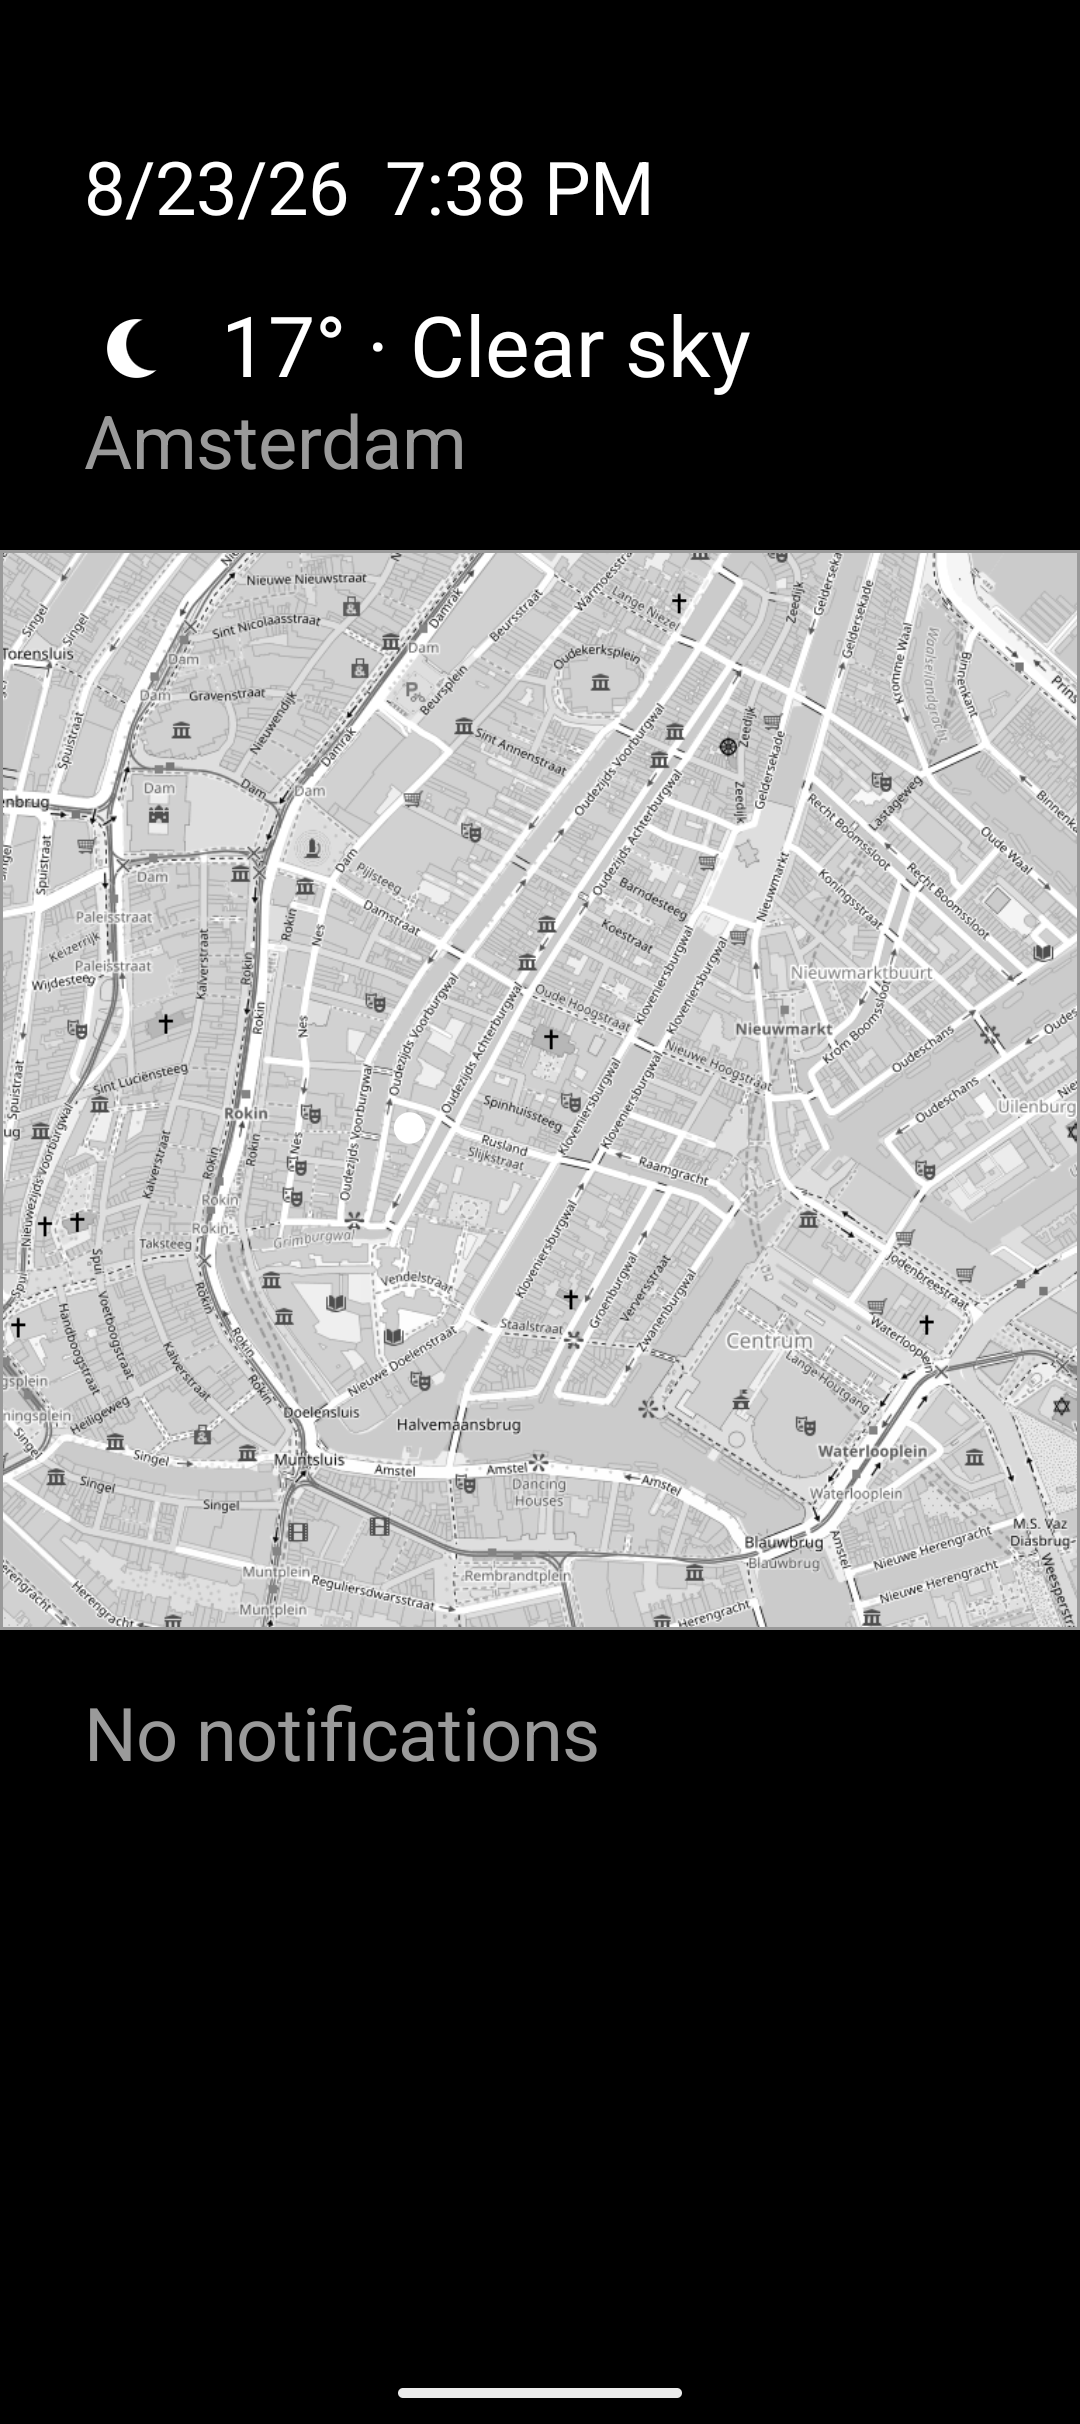
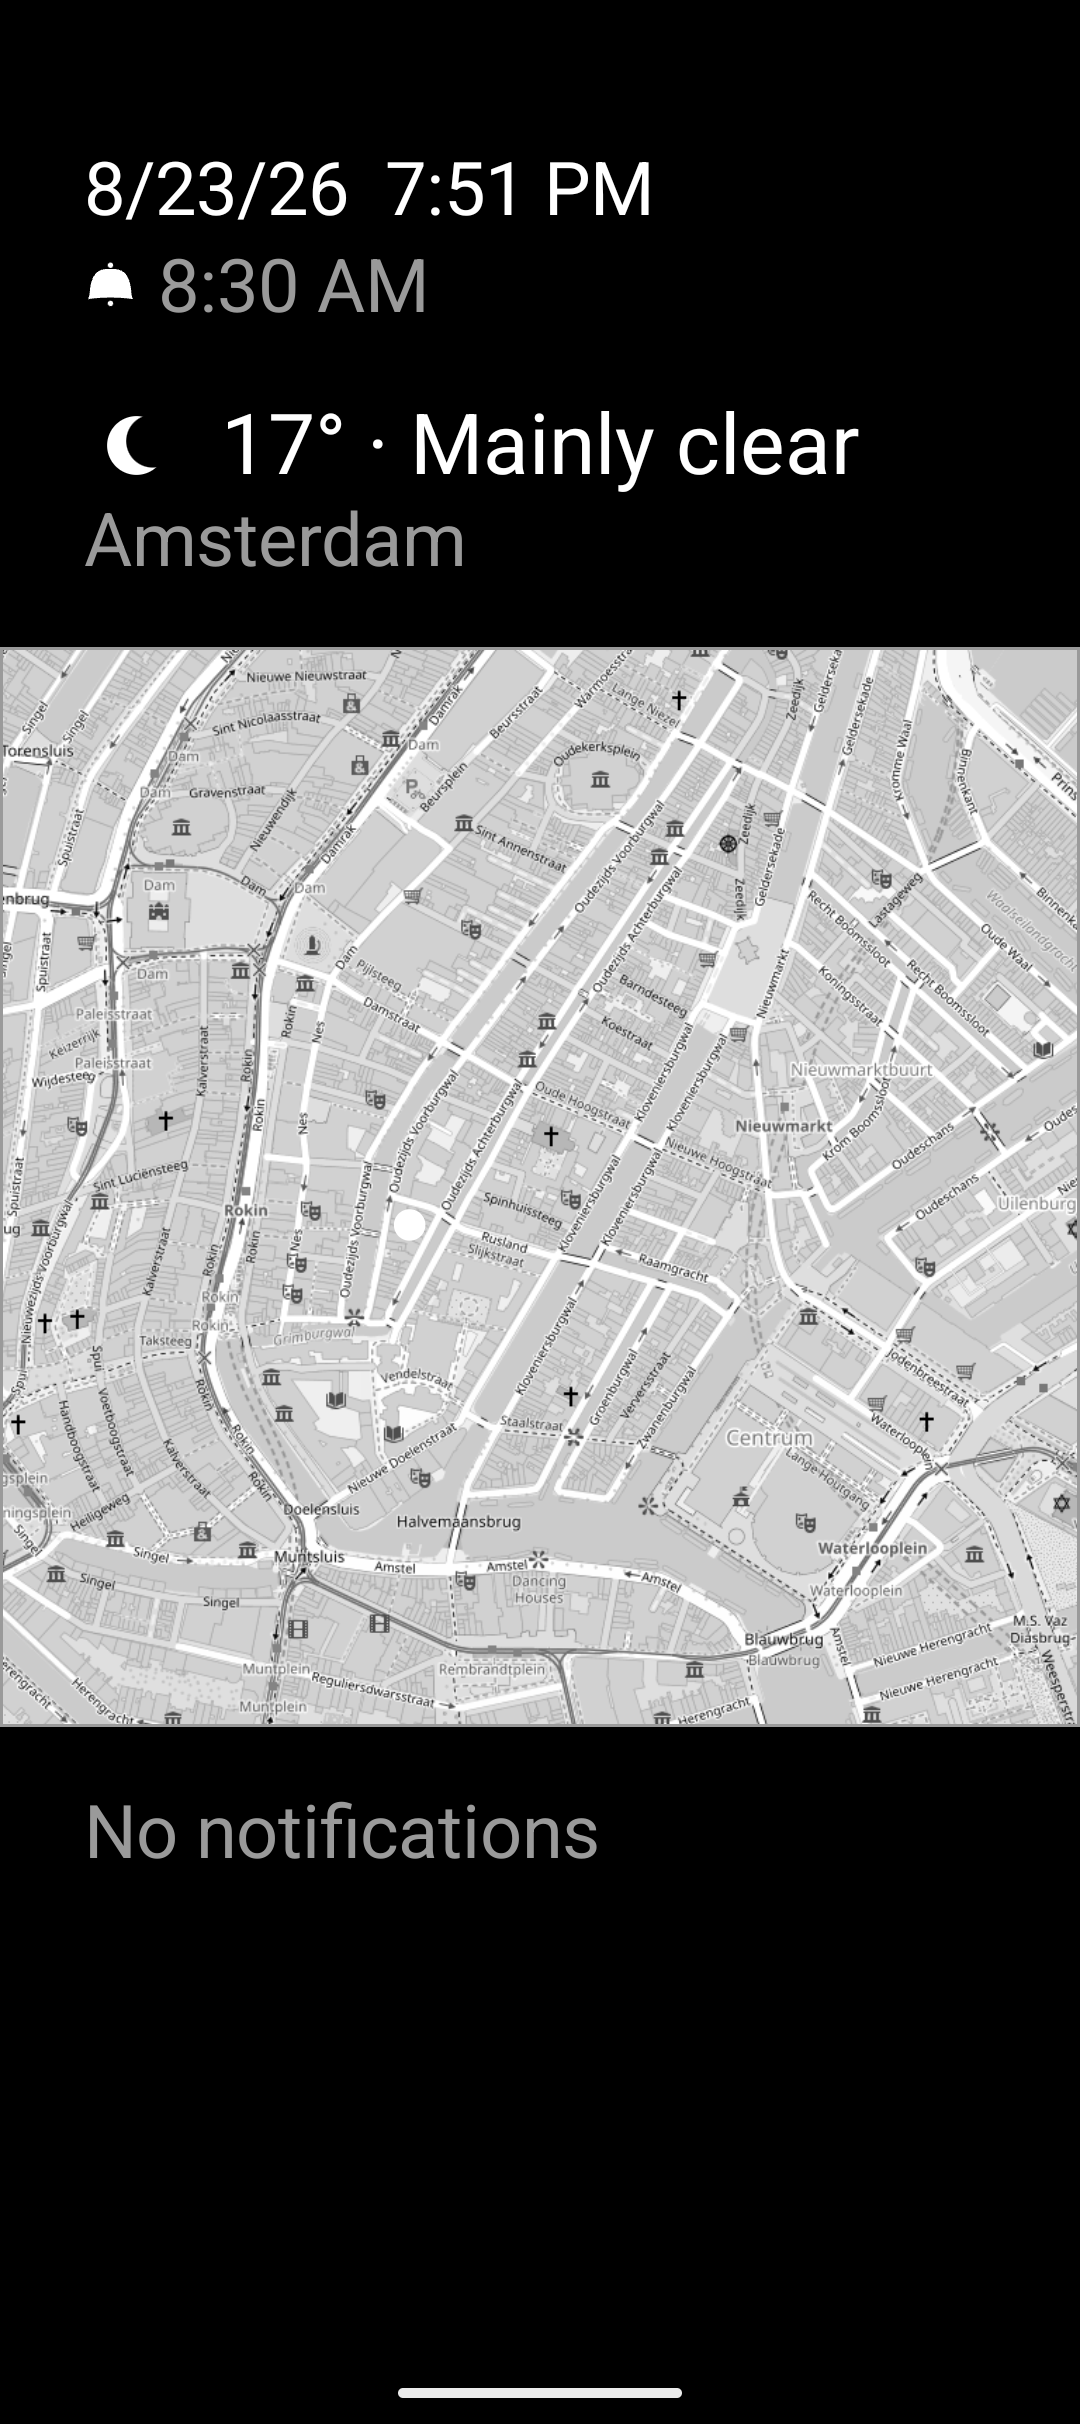
Show the next alarm on the dashboard's date/time line
Uses AlarmManager.getNextAlarmClock() — public, no special permission
needed. Shown only when the alarm is due within 25 hours (a farther-out
alarm is treated the same as none set), on its own line below the
date/time with a small hand-drawn bell icon, matching the weather
icon's style. Timer support was scoped out: Android has no public API
for "is a timer currently running," since that state is private to
whichever clock app the user has installed.

Verified against a real alarm set through the emulator's Clock app.

Closes #8

Changed region(s): [[0.0, 0.0928, 1.0, 0.7735], [0.3972, 0.0619, 0.4889, 0.0928], [0.1528, 0.0928, 0.1833, 0.1238]]

diff --git a/app/src/main/java/nl/petervanmanen/minimalauncher/ui/dashboard/DateTimeSection.kt b/app/src/main/java/nl/petervanmanen/minimalauncher/ui/dashboard/DateTimeSection.kt
@@ -1,8 +1,14 @@
 package nl.petervanmanen.minimalauncher.ui.dashboard
 
+import android.app.AlarmManager
 import android.text.format.DateFormat
 import androidx.compose.foundation.combinedClickable
 import androidx.compose.foundation.interaction.MutableInteractionSource
+import androidx.compose.foundation.layout.Column
+import androidx.compose.foundation.layout.Row
+import androidx.compose.foundation.layout.Spacer
+import androidx.compose.foundation.layout.height
+import androidx.compose.foundation.layout.width
 import androidx.compose.material3.MaterialTheme
 import androidx.compose.material3.Text
 import androidx.compose.runtime.Composable
@@ -11,13 +17,18 @@ import androidx.compose.runtime.getValue
 import androidx.compose.runtime.mutableStateOf
 import androidx.compose.runtime.remember
 import androidx.compose.runtime.setValue
+import androidx.compose.ui.Alignment
 import androidx.compose.ui.Modifier
 import androidx.compose.ui.platform.LocalContext
+import androidx.compose.ui.unit.dp
 import java.util.Date
 import kotlinx.coroutines.delay
+import nl.petervanmanen.minimalauncher.data.util.nextAlarmToShow
+import nl.petervanmanen.minimalauncher.ui.theme.DimWhite
 
 /**
- * The current date and time, in the device's own format/locale settings.
+ * The current date and time, in the device's own format/locale settings,
+ * plus the next alarm on its own line if one is due within 25 hours.
  * Tapping opens the configured app (or the picker, if none is set yet);
  * long-press always opens the picker so the choice can be changed.
  */
@@ -28,28 +39,48 @@ fun DateTimeSection(
     modifier: Modifier = Modifier,
 ) {
     val context = LocalContext.current
+    val alarmManager = remember(context) { context.getSystemService(AlarmManager::class.java) }
+
     var now by remember { mutableStateOf(System.currentTimeMillis()) }
+    var nextAlarmTrigger by remember { mutableStateOf(alarmManager?.nextAlarmClock?.triggerTime) }
 
     LaunchedEffect(Unit) {
         while (true) {
             delay(60_000)
             now = System.currentTimeMillis()
+            nextAlarmTrigger = alarmManager?.nextAlarmClock?.triggerTime
         }
     }
 
     val dateFormat = remember(context) { DateFormat.getDateFormat(context) }
     val timeFormat = remember(context) { DateFormat.getTimeFormat(context) }
-    val text = remember(now) { "${dateFormat.format(Date(now))}  ${timeFormat.format(Date(now))}" }
+    val alarmToShow = remember(nextAlarmTrigger, now) { nextAlarmToShow(nextAlarmTrigger, now) }
 
     val interactionSource = remember { MutableInteractionSource() }
-    Text(
-        text = text,
-        style = MaterialTheme.typography.bodyLarge,
+    Column(
         modifier = modifier.combinedClickable(
             interactionSource = interactionSource,
             indication = null,
             onClick = onClick,
             onLongClick = onLongClick,
         ),
-    )
+    ) {
+        Text(
+            text = "${dateFormat.format(Date(now))}  ${timeFormat.format(Date(now))}",
+            style = MaterialTheme.typography.bodyLarge,
+        )
+
+        if (alarmToShow != null) {
+            Spacer(modifier = Modifier.height(4.dp))
+            Row(verticalAlignment = Alignment.CenterVertically) {
+                AlarmIcon()
+                Spacer(modifier = Modifier.width(8.dp))
+                Text(
+                    text = timeFormat.format(Date(alarmToShow)),
+                    style = MaterialTheme.typography.bodyLarge,
+                    color = DimWhite,
+                )
+            }
+        }
+    }
 }

diff --git a/app/src/main/java/nl/petervanmanen/minimalauncher/ui/dashboard/AlarmIcon.kt b/app/src/main/java/nl/petervanmanen/minimalauncher/ui/dashboard/AlarmIcon.kt
@@ -1,0 +1,37 @@
+package nl.petervanmanen.minimalauncher.ui.dashboard
+
+import androidx.compose.foundation.Canvas
+import androidx.compose.foundation.layout.size
+import androidx.compose.runtime.Composable
+import androidx.compose.ui.Modifier
+import androidx.compose.ui.geometry.Offset
+import androidx.compose.ui.graphics.Path
+import androidx.compose.ui.unit.dp
+import nl.petervanmanen.minimalauncher.ui.theme.PureWhite
+
+private val ICON_SIZE = 20.dp
+
+/** A simple hand-drawn bell glyph — no icon assets, matching the app's style. */
+@Composable
+fun AlarmIcon(modifier: Modifier = Modifier) {
+    Canvas(modifier = modifier.size(ICON_SIZE)) {
+        val w = size.width
+        val h = size.height
+        val cx = w / 2f
+
+        drawCircle(color = PureWhite, radius = h * 0.05f, center = Offset(cx, h * 0.08f))
+
+        val body = Path().apply {
+            moveTo(cx - w * 0.06f, h * 0.15f)
+            cubicTo(cx - w * 0.4f, h * 0.15f, cx - w * 0.38f, h * 0.55f, cx - w * 0.4f, h * 0.65f)
+            lineTo(cx - w * 0.42f, h * 0.72f)
+            cubicTo(cx - w * 0.2f, h * 0.68f, cx + w * 0.2f, h * 0.68f, cx + w * 0.42f, h * 0.72f)
+            lineTo(cx + w * 0.4f, h * 0.65f)
+            cubicTo(cx + w * 0.38f, h * 0.55f, cx + w * 0.4f, h * 0.15f, cx + w * 0.06f, h * 0.15f)
+            close()
+        }
+        drawPath(body, color = PureWhite)
+
+        drawCircle(color = PureWhite, radius = h * 0.05f, center = Offset(cx, h * 0.8f))
+    }
+}

diff --git a/app/src/test/java/nl/petervanmanen/minimalauncher/data/util/AlarmActionsTest.kt b/app/src/test/java/nl/petervanmanen/minimalauncher/data/util/AlarmActionsTest.kt
@@ -1,0 +1,41 @@
+package nl.petervanmanen.minimalauncher.data.util
+
+import org.junit.Assert.assertEquals
+import org.junit.Assert.assertNull
+import org.junit.Test
+
+class AlarmActionsTest {
+
+    private val now = 1_000_000_000_000L
+    private val hour = 60 * 60 * 1000L
+
+    @Test
+    fun `no alarm set returns null`() {
+        assertNull(nextAlarmToShow(null, now))
+    }
+
+    @Test
+    fun `alarm one hour away is shown`() {
+        assertEquals(now + hour, nextAlarmToShow(now + hour, now))
+    }
+
+    @Test
+    fun `alarm exactly 25 hours away is shown`() {
+        assertEquals(now + 25 * hour, nextAlarmToShow(now + 25 * hour, now))
+    }
+
+    @Test
+    fun `alarm more than 25 hours away is treated as not set`() {
+        assertNull(nextAlarmToShow(now + 25 * hour + 1, now))
+    }
+
+    @Test
+    fun `alarm due right now is shown`() {
+        assertEquals(now, nextAlarmToShow(now, now))
+    }
+
+    @Test
+    fun `alarm in the past is treated as not set`() {
+        assertNull(nextAlarmToShow(now - hour, now))
+    }
+}

diff --git a/app/src/main/java/nl/petervanmanen/minimalauncher/data/util/AlarmActions.kt b/app/src/main/java/nl/petervanmanen/minimalauncher/data/util/AlarmActions.kt
@@ -1,0 +1,14 @@
+package nl.petervanmanen.minimalauncher.data.util
+
+private const val ALARM_LOOKAHEAD_MS = 25 * 60 * 60 * 1000L // 25 hours
+
+/**
+ * [alarmTriggerAtMillis] (from `AlarmManager.getNextAlarmClock()`) if it falls
+ * within the next 25 hours of [nowMillis], otherwise null — a farther-out
+ * alarm is treated the same as no alarm being set at all.
+ */
+internal fun nextAlarmToShow(alarmTriggerAtMillis: Long?, nowMillis: Long): Long? {
+    if (alarmTriggerAtMillis == null) return null
+    val delta = alarmTriggerAtMillis - nowMillis
+    return if (delta in 0..ALARM_LOOKAHEAD_MS) alarmTriggerAtMillis else null
+}

diff --git a/README.md b/README.md
@@ -34,7 +34,7 @@ The app is one horizontal row of three screens, with the dock in the middle:
 | Left — **Dashboard** | Center — **Dock** | Right — **All Apps** |
 | :---: | :---: | :---: |
 | ![Dashboard screen](docs/screenshots/left-dashboard.png) | ![Dock screen](docs/screenshots/center-dock.png) | ![All Apps screen](docs/screenshots/right-allapps.png) |
-| The date and time, weather, a small map centered on your current location, and notifications (tap to expand, tap again to open the app). Each section can be hidden and its tap target configured from Settings. Reached by swiping right from the dock. | Your chosen apps, text-only, across one or more vertical pages. The home screen. | Every installed app, alphabetically. Reached by swiping left from the dock. |
+| The date and time (with your next alarm, if it's within 25 hours), weather, a small map centered on your current location, and notifications (tap to expand, tap again to open the app). Each section can be hidden and its tap target configured from Settings. Reached by swiping right from the dock. | Your chosen apps, text-only, across one or more vertical pages. The home screen. | Every installed app, alphabetically. Reached by swiping left from the dock. |
 
 ## Building
 

diff --git a/FEATURES.md b/FEATURES.md
@@ -156,6 +156,10 @@ gated — the screen degrades gracefully without either.
   permission. [#7]
 - [ ] Updates live, at least once a minute. [#7]
 - [ ] Hidden when the **Show date** setting is off. [#7]
+- [ ] If the device's next alarm (`AlarmManager.getNextAlarmClock()`) is due
+  within the next 25 hours, its time is shown on its own line below the
+  date/time, next to a small hand-drawn bell icon. A farther-out alarm (or
+  none set) shows nothing extra. [#8]
 - [ ] Tapping launches the user's configured date app; if none is
   configured yet, it opens the app picker instead. [#7]
 - [ ] Long-pressing always opens the app picker, even if one is already
